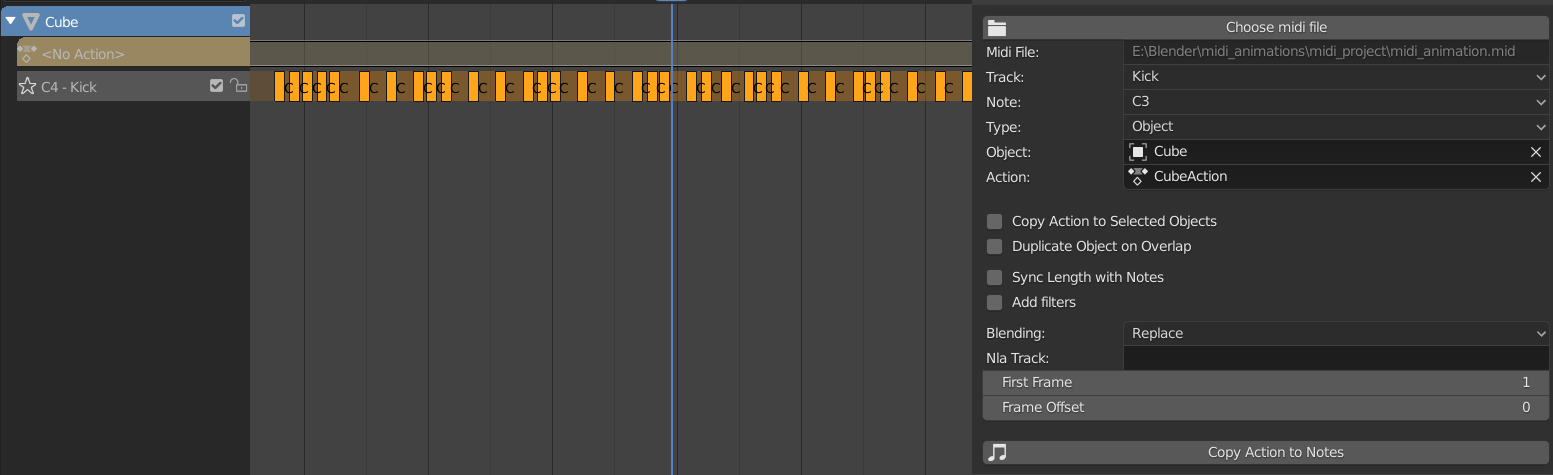
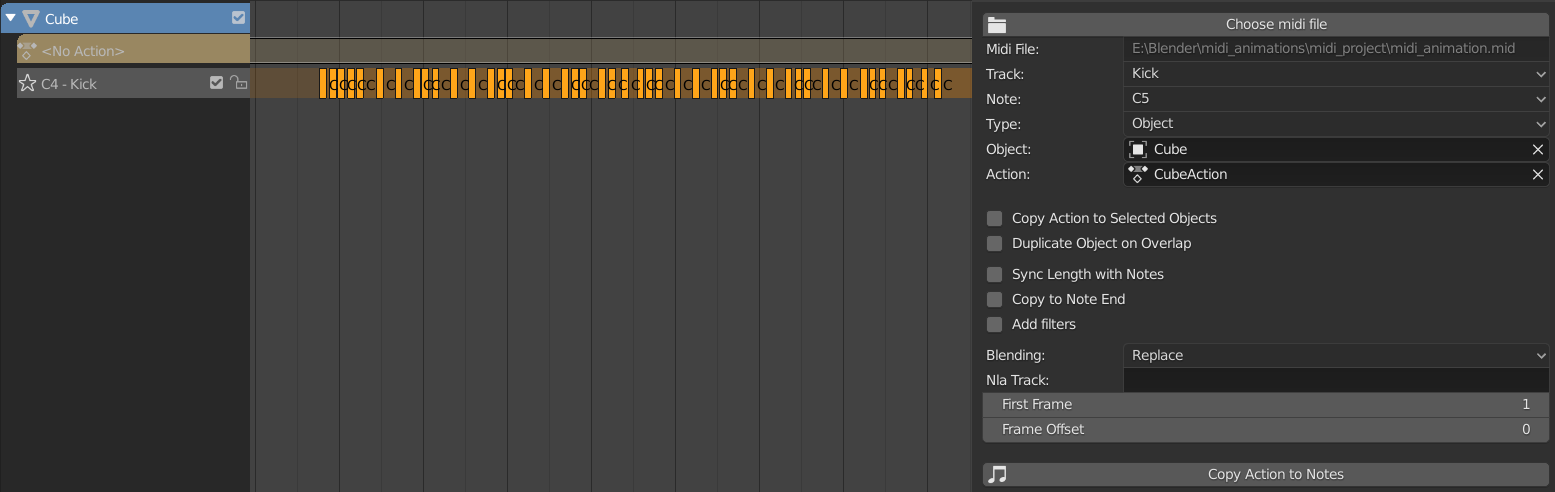
add option to copy to note end fix no room issue when coping nla strips for scaled down actions when there are existing actions on the track

diff --git a/NLAMidiCopierModule.py b/NLAMidiCopierModule.py
@@ -18,21 +18,38 @@ from .midi_analysis.Note import Note
 
 
 class ActionToCopy:
-    def __init__(self, action, nla_track, first_frame: int, last_frame: int, scale_factor: float, blend_type: str):
+    def __init__(self, action, nla_track, first_frame: int, last_frame: int, scale_factor: float, blend_type: str,
+                 strips_to_shift):
         self.action = action
         self.nla_track = nla_track
         self.first_frame = first_frame
         self.last_frame = last_frame
         self.scale_factor = scale_factor
         self.blend_type = blend_type
+        self.strips_to_shift = strips_to_shift
 
     def copy_action(self):
+        # shift strips to the right if adding the non-scaled action will caused an overlap
+        shift_amount_frames = 0
+        if len(self.strips_to_shift) > 0:
+            true_action_length = self.action.frame_range[1] - self.action.frame_range[0]
+            shift_amount_frames = self.first_frame + true_action_length - self.strips_to_shift[0].frame_start + 1
+            for strip in reversed(self.strips_to_shift):
+                strip.frame_end = strip.frame_end + shift_amount_frames
+                strip.frame_start = strip.frame_start + shift_amount_frames
+
         nla_strips = self.nla_track.strips
         copied_strip = nla_strips.new(str(self.first_frame) + ' ' + self.action.name, self.first_frame, self.action)
         copied_strip.scale = self.scale_factor
         if self.blend_type is not None:
             copied_strip.blend_type = self.blend_type
             copied_strip.extrapolation = "NOTHING"
+
+        # moved shifted strips back
+        if shift_amount_frames > 0:
+            for strip in self.strips_to_shift:
+                strip.frame_start = strip.frame_start - shift_amount_frames
+                strip.frame_end = strip.frame_end - shift_amount_frames
 
 
 class NlaTrackInfo:
@@ -45,6 +62,14 @@ class NlaTrackInfo:
         self.last_action_added: Optional[ActionToCopy] = None
 
     def existing_action_overlap(self, first_frame: int, last_frame: int):
+        """
+        :param first_frame: the first frame of the action
+        :param last_frame:  the last frame of the action
+        :return: True if the action overlaps an action that exists on the track
+        (does not include actions that will be copied). This method needs to be called in ascending order by first frame
+        of actions being checked (does not check for actions that are known to be before the last action that was
+        checked in order to be more efficient).
+        """
         while self.current_nla_strip_index < self.nla_strip_count and \
                 self.nla_strips[self.current_nla_strip_index].frame_start <= last_frame:
             if self.nla_strips[self.current_nla_strip_index].frame_end >= first_frame:
@@ -53,6 +78,11 @@ class NlaTrackInfo:
         return False
 
     def overlaps_last_added_action(self, action_first_frame: int, action_last_frame: int) -> bool:
+        """
+        :param action_first_frame: the first frame of the action
+        :param action_last_frame: the last frame of the action
+        :return: True if the action overlaps the most recent action that was added to be copied
+        """
         if self.last_action_added is None:
             overlaps_last_action = False
         else:
@@ -60,13 +90,27 @@ class NlaTrackInfo:
                                    self.last_action_added.first_frame
         return overlaps_last_action
 
+    def actions_to_shift_when_copy(self, action_last_frame: int):
+        """
+        :param action_last_frame: copied actions's last frame
+        :return: list of actions that would need to be shifted to the right in order to make room for the copied action
+        """
+        if self.current_nla_strip_index >= self.nla_strip_count:
+            return []
+        else:
+            if self.nla_strips[self.current_nla_strip_index].frame_start <= action_last_frame:
+                return self.nla_strips[self.current_nla_strip_index:]
+            else:
+                return []
+
     def has_room_for_action(self, action_first_frame: int, action_last_frame: int) -> bool:
         return not self.existing_action_overlap(action_first_frame, action_last_frame) \
                and not self.overlaps_last_added_action(action_first_frame, action_last_frame)
 
-    def add_action(self, action, first_frame: int, last_frame: int, scale_factor: float) -> ActionToCopy:
+    def add_action(self, action, first_frame: int, last_frame: int, scale_factor: float,
+                   actions_to_shift) -> ActionToCopy:
         self.last_action_added = ActionToCopy(action, self.nla_track, first_frame, last_frame, scale_factor,
-                                              self.blend_type)
+                                              self.blend_type, actions_to_shift)
         return self.last_action_added
 
 
@@ -84,17 +128,25 @@ class NlaTracksManager:
         self.skip_overlaps: bool = blend_mode == "None"
         self.original_track: [NlaTrackInfo] = self.next_track()
         self.objects_using_data = None
+        self.true_action_length = self.action.frame_range[1] - self.action.frame_range[0]
         pass
 
     def action_to_copy(self, first_frame: int, last_frame: int, action_scale_factor: float) -> Optional[ActionToCopy]:
         nla_track_info = self.track_for_action(first_frame, last_frame)
         if nla_track_info is not None:
-            return nla_track_info.add_action(self.action, first_frame, last_frame, action_scale_factor)
+            # If the action is scaled down, there may be a conflict when adding the action at first since it will not
+            # be caused down at that point and could extend past the next strip. In this case, temporarily shift
+            # actions to the right to make space.
+            actions_to_shift = nla_track_info.actions_to_shift_when_copy(
+                first_frame + self.true_action_length) if action_scale_factor < 1 else []
+            return nla_track_info.add_action(self.action, first_frame, last_frame, action_scale_factor,
+                                             actions_to_shift)
         return None
 
     def track_for_action(self, first_frame: int, last_frame: int) -> Optional[NlaTrackInfo]:
         if self.duplicate_on_overlap:
-            # if the original track has room, don't duplicate the object (duplicated object would not have room either)
+            # if the original track doesn't have room, don't duplicate the object
+            # (duplicated object would not have room either)
             if self.original_track.existing_action_overlap(first_frame, last_frame):
                 return None
             else:
@@ -207,6 +259,7 @@ class NoteActionCopier:
                                     note_action_property.duplicate_object_on_overlap
         self.scale_to_note_length = note_action_property.sync_length_with_notes
         self.scale_factor = note_action_property.scale_factor
+        self.copy_to_note_end = note_action_property.copy_to_note_end
         self.action = note_action_property.action
         self.filter_groups_property = note_action_property.note_filter_groups
         self.add_filters = note_action_property.add_filters
@@ -301,7 +354,8 @@ class NoteActionCopier:
         :param note: Note object
         :return: the first frame for an action syncing up to this note
         """
-        return (note.startTime / 1000) * self.frames_per_second + self.frame_offset
+        return ((note.endTime if self.copy_to_note_end else note.startTime) / 1000) \
+               * self.frames_per_second + self.frame_offset
 
     @staticmethod
     def get_animation_data(animated_object):

diff --git a/MidiInstrumentModule.py b/MidiInstrumentModule.py
@@ -127,6 +127,7 @@ class CopyMidiPanelActionToInstrument(bpy.types.Operator):
         copy_to.duplicate_object_on_overlap = copy_from.duplicate_object_on_overlap
         copy_to.blend_mode = copy_from.blend_mode
         copy_to.sync_length_with_notes = copy_from.sync_length_with_notes
+        copy_to.copy_to_note_end = copy_from.copy_to_note_end
         copy_to.add_filters = copy_from.add_filters
         copy_to.filters_expanded = copy_from.filters_expanded
         copy_to.action_length = copy_from.action_length

diff --git a/MidiPanelModule.py b/MidiPanelModule.py
@@ -129,6 +129,9 @@ class MidiPanel(bpy.types.Panel):
         col.prop(note_action_property, "sync_length_with_notes")
         if note_action_property.sync_length_with_notes:
             col.prop(note_action_property, "scale_factor")
+
+        col.prop(note_action_property, "copy_to_note_end")
+
         col.prop(note_action_property, "add_filters")
         if note_action_property.add_filters:
             PanelUtils.draw_filter_box(col, note_action_property, not is_main_property, action_index, "midi_data")

diff --git a/MidiPropertiesModule.py b/MidiPropertiesModule.py
@@ -117,6 +117,11 @@ class NoteActionProperty(PropertyGroup):
                                  "they are copied to",
                      default=False)
 
+    copy_to_note_end: \
+        BoolProperty(name="Copy to Note End",
+                     description="Copy the action to the end of the note instead of the beginning",
+                     default=False)
+
     add_filters: \
         BoolProperty(name="Add filters",
                      description="Add filters to exclude notes",

diff --git a/__init__.py b/__init__.py
@@ -2,7 +2,7 @@ bl_info = \
     {
         "name": "Blender NLA Midi Copier",
         "author": "Cornerback24",
-        "version": (0, 7, 2),
+        "version": (0, 7, 3),
         "blender": (2, 80, 0),
         "location": "View NLA Editor > Tool Shelf",
         "description": "Copy actions to action strips based on midi file input",

diff --git a/CHANGELOG.md b/CHANGELOG.md
@@ -1,0 +1,57 @@
+- 0.7.3 2020-7-18
+  * Add ability to copy to end of note
+  * Fix issue where copying a scaled down action to a track with existing actions could result in a no room for strip error                                                                                              
+- 0.7.2 2020-7-11
+  * Fix copying to instrument creating a blank filter group (revert automatically adding filter group)
+- 0.7.1 2020-7-6
+  * Add support for Duplicate on Overlap and Copy to Selected to more types.
+  * Add support for Copy to selected to more types.
+  * Add a "Selected" pitch filter to match selected note.
+  * Add a filter group when "Add filters" is selected if there isn't already an existing filter group.
+- 0.7.0 2020-7-6
+  * Add copy to single track for instruments option (instead of one track per note).
+  * Add blend type for overlapping nla strips on additional nla tracks. 
+  * Add ability to copy actions from the midi panel to an instrument.
+  * Add search box for instrument notes.
+  * Add frame offset that affects an entire instrument (replaces default frame offset for instrument actions).
+  * Update to copy to an existing track if the track name matches.
+- 0.6.2 2020-6-13
+  * Fix incompatibility with Blender 2.83 grease pencil. 
+  * Fix frame number off by one when coping grease pencil frames.
+- 0.6.1 2020-5-6
+  * Add note length filter.
+  * Add velocity filter.
+- 0.6.0 2020-3-5
+  * Add filters.
+  * Add filter groups.
+  * Add start time filter.
+  * Add pitch filter.
+  * Add alternation filter (copy every n notes starting with note m).
+  * Add middle c display property (changes what octaves are displayed, such as C3 vs C4 vs C5 for midi note 60).
+- 0.5.4 2020-2-23
+  * GNU License (#2)
+  * Update script meta info (add wiki url to readme, bug tracker url, community support category).
+- 0.5.3 2019-8-5
+  * Fix failure to parse midi files with running status channel events.
+- 0.5.2 2019-7-24
+  * Fix sync length with notes option being unavailable for non-object actions.
+  * Fix possible issue with copy with duplication on overlap (actions may have been copied to the wrong duplicated object).
+- 0.5.1 2019-7-21
+  * Add a button to animate all instruments.
+  * Fix coping node tree actions.
+- 0.5.0 2019-7-20
+  * Add an option to scale copied NLA strips to note length.
+  * Add option to scale copied grease pencil frames to note length
+- 0.4.0 2019-7-19
+  * Add support for copying grease pencil frames.
+- 0.3.2 2019-7-13
+  * fix panel naming convention warnings
+- 0.3.1 2019-4-14
+  * Add support for actions defined on a material's node tree.
+- 0.3.0 2018-2-16
+  * Add instruments. An instrument is a collection of actions for each note.
+- 0.2.0 2019-2-2
+  * Update from duplicating nla strips to making new nla strips with a selected action.  
+- 0.1.0 2018-12-1  
+  * Update to Blender 2.80.
+

diff --git a/README.md b/README.md
@@ -39,6 +39,8 @@ Midi Panel
   * If selected, the length of the copied action will be scaled to match the length of the note it is copied to multiplied by the scale factor.
 * Scale Factor
   * Affects the length of actions when "Sync Length with Notes" is selected. The copied action length will be equal to the length of the note multiplied by this scale factor. (Scale factor of 1 will match the note length exactly.)
+* Copy to Note End
+  * Copies the action to the end of the note instead of the beginning.
 * Add filters.  
   * Adds filters. If selected, any defined filters will be applied when copying actions. No filters will be applied if this option is not selected. See the Filters section for more information about filters.
 * Blending
